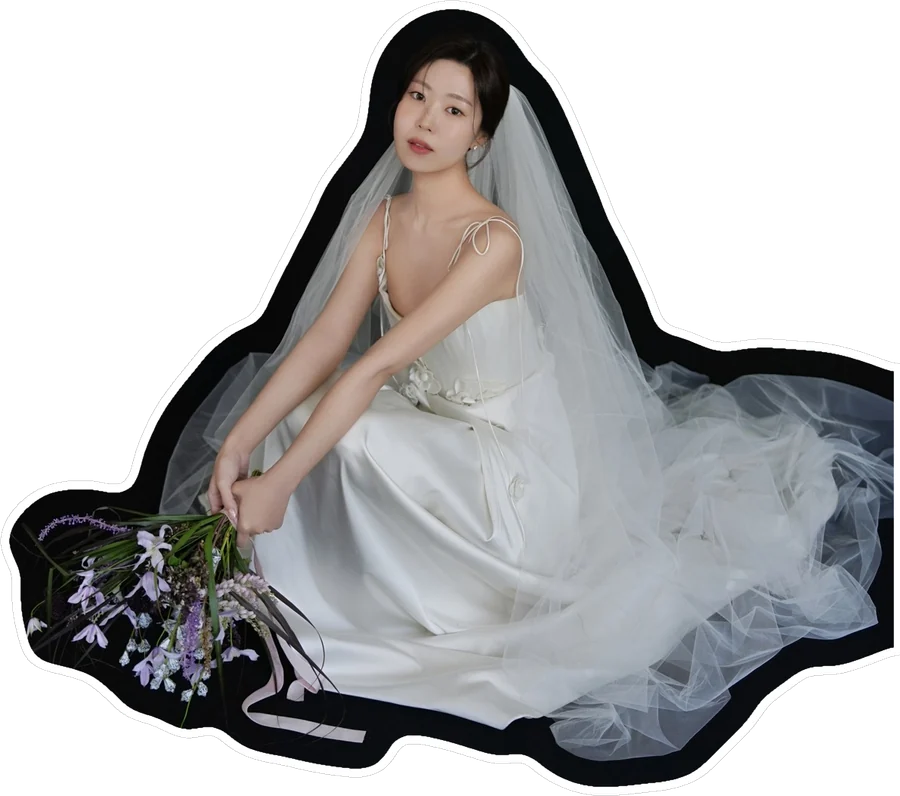
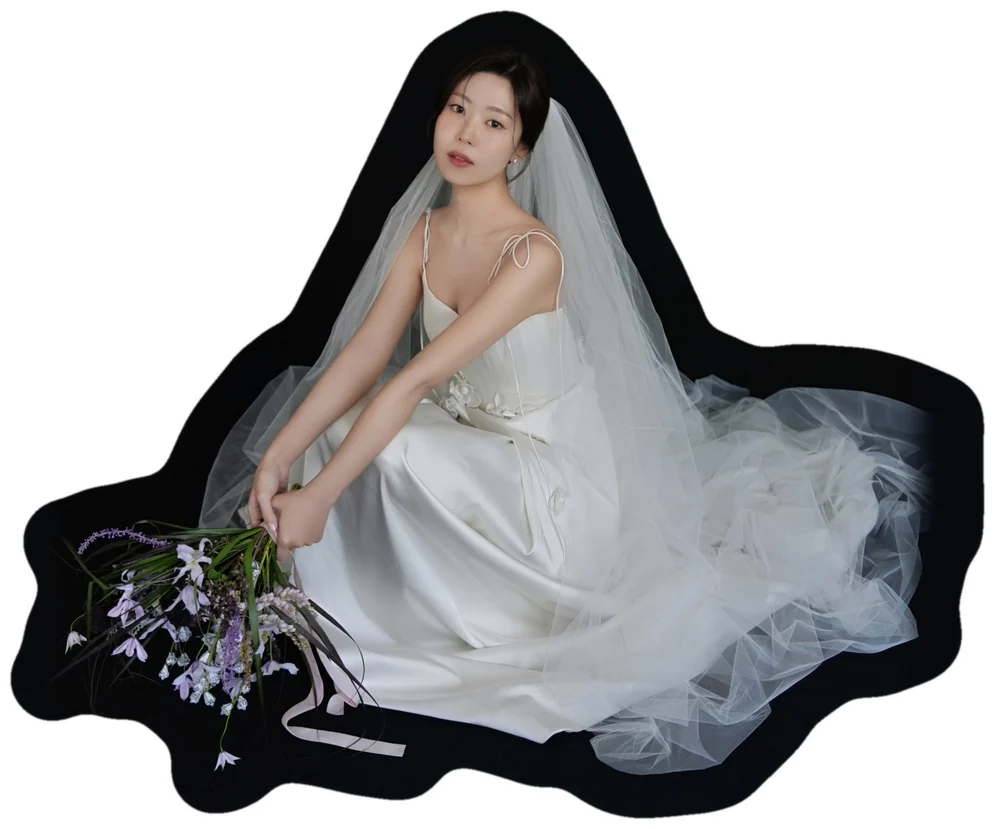
신랑 신부 소개: 신부 스티커를 새 원본 사진으로 교체 (#12)
* 신랑 신부 소개: 신부 스티커를 새 원본 사진으로 교체

인물 경계에서 여백을 넉넉히 두고 둥글게 오린 뒤 흰 펜 라인을 둘렀다.
머리·베일·부케·리본이 모두 여백 안에 들어가며, 사진 오른쪽 끝에서
잘린 베일은 배경으로 부드럽게 페이드했다. 캔버스 크기(900×796)는
그대로 두어 섹션 배치와 이름·소개 스티커 위치는 바뀌지 않는다.

Claude-Session: https://claude.ai/code/session_01GZp4QBVFNWQFNZ5sfCrkZS

* 신부 스티커 인물 크기를 이전 스티커와 같게 맞춤

예전 스티커와 같은 배율(원본의 60.5%)·위치로 다시 만들고, 트레인·부케
여백만큼 커진 이미지는 CSS 음수 여백으로 바깥에 넘치게 해 레이아웃
상자 크기(900×796 비율)와 이름·소개 스티커 위치는 그대로 유지.

Claude-Session: https://claude.ai/code/session_01GZp4QBVFNWQFNZ5sfCrkZS

---------

diff --git a/css/style.css b/css/style.css
@@ -537,6 +537,13 @@ body.is-curtain { overflow: hidden; }
   display: block; width: 100%; height: auto;
   filter: drop-shadow(0 0 1px rgba(59, 69, 82, .35)) drop-shadow(0 5px 8px rgba(59, 69, 82, .25));
 }
+/* 신부 스티커는 베일 트레인·부케까지 여백 안에 담느라 원래 자리(900×796)보다 크다.
+   인물 크기·위치는 예전과 같게 두고, 넘치는 여백만 바깥으로 — 레이아웃 상자 높이는 그대로 */
+.person--bride .person__sticker img {
+  width: 110.556%;
+  margin: -1.459% 0 -2.208% -4.408%;
+  max-width: none;
+}
 .person__sticker--placeholder {
   aspect-ratio: 3 / 4;
   display: flex; align-items: center; justify-content: center;
